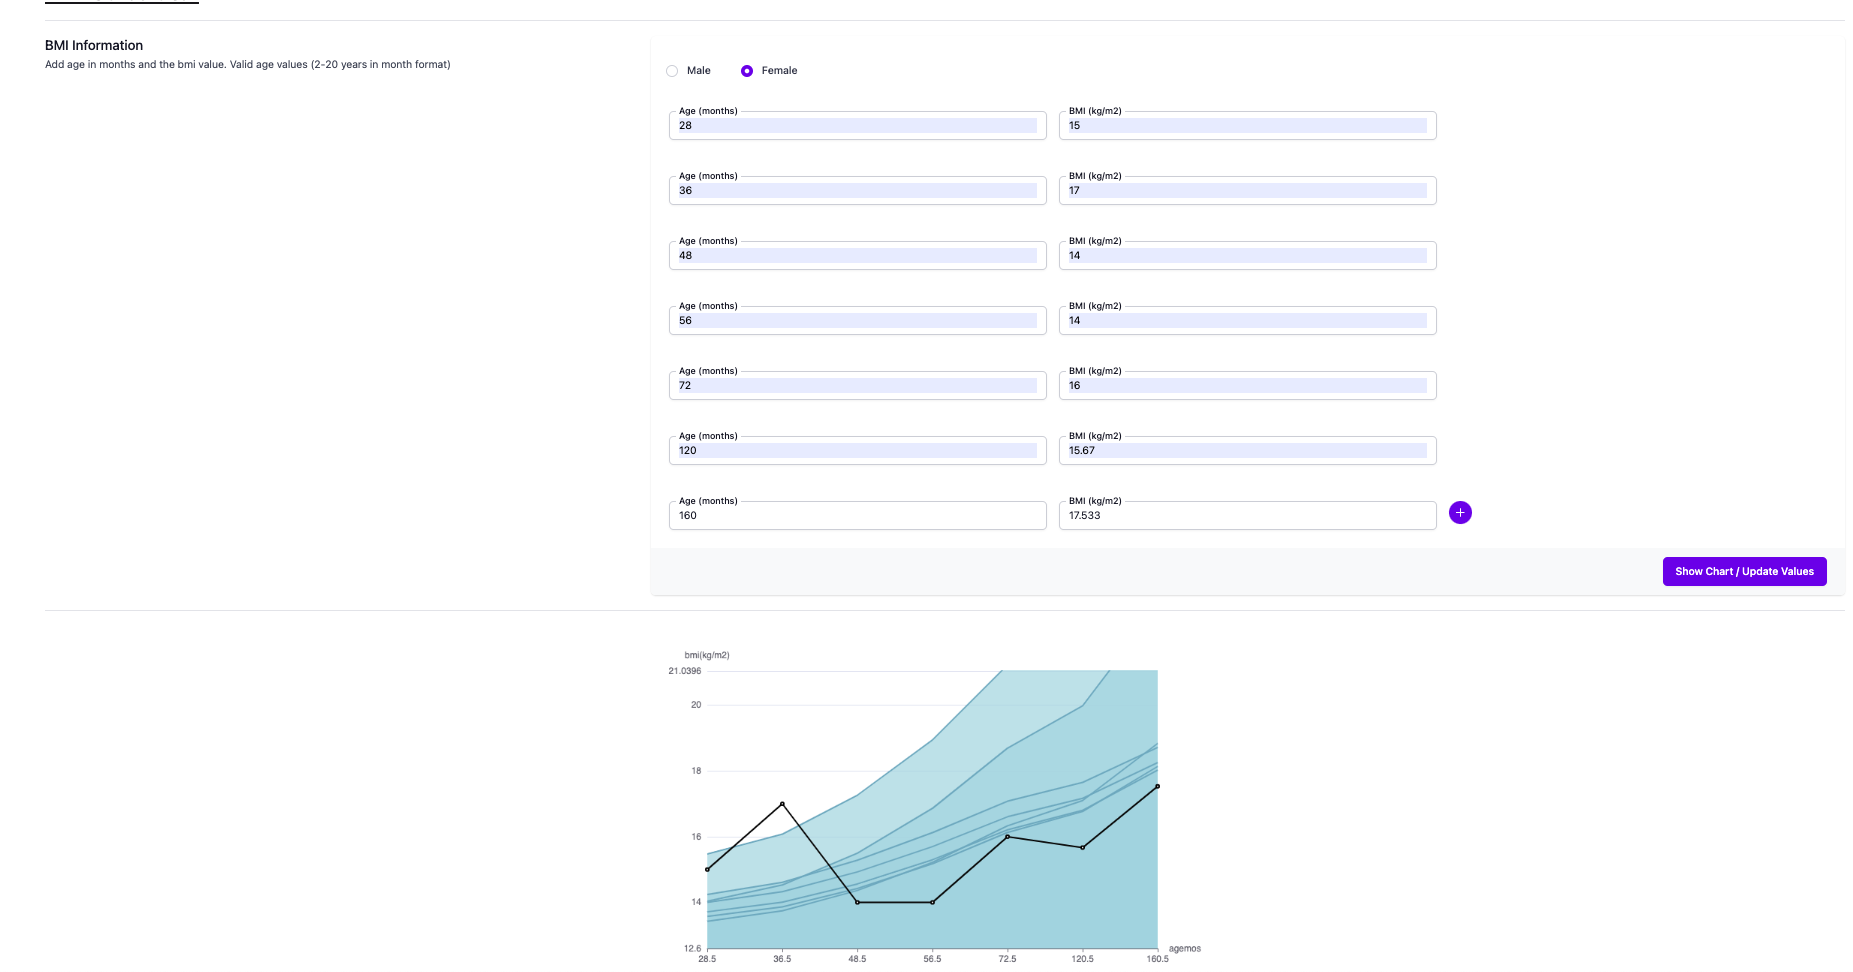
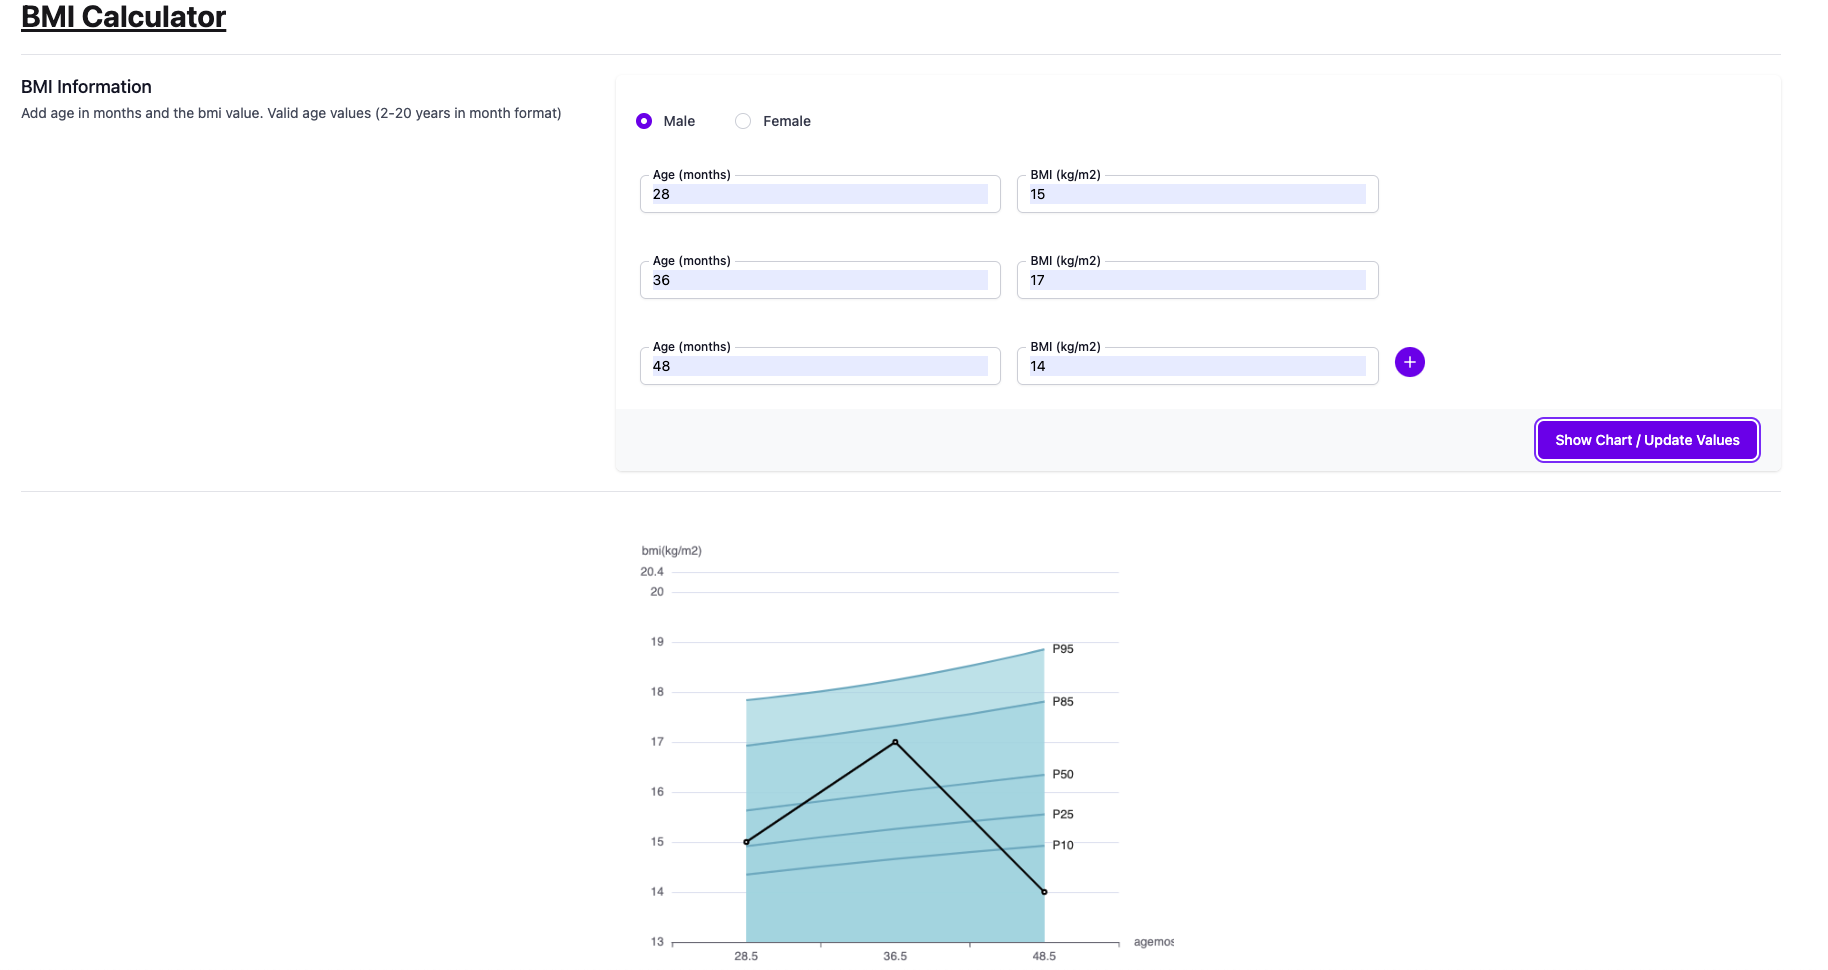
fix:chart data

diff --git a/chart-generator/src/App.tsx b/chart-generator/src/App.tsx
@@ -15,7 +15,7 @@ interface ItemInterface {
 }
 
 function App() {
-  const percentilesValue = ['P5', 'P10', 'P25', 'P50', 'P75', 'P85', 'P95']
+  const percentilesValue = ['P10', 'P25', 'P50', 'P85', 'P95']
   const [ageArray, setAgeArray] = useState([{ showErrorAge: false, showErrorBmi: false, bmi: '', ageMonths: '', id: 1 }])
 
   const addObAjectToArray = () => {
@@ -78,10 +78,13 @@ function App() {
     const yAxisData = xAxisData.map((curr: any) => percentilesValue.map((columnName) => {
       return dataPerGender[curr][columnName]
     }))
+    console.log({ yAxisData })
     const clientData: number[] = result.map(({ bmi }: ItemInterface) => bmi)
-    const series = yAxisData.map((data: any, index: number) => {
+    console.log({ yAxisData })
+    const series: any = percentilesValue.map((_, index) => {
       return {
-        data,
+        data: yAxisData.map((arr: any) => arr[index]).reverse(),
+        smooth: true,
         showSymbol: false,
         type: 'line',
         areaStyle: {
@@ -90,7 +93,13 @@ function App() {
         lineStyle: {
           color: '#76b5c5'
         },
-        name: percentilesValue[index]
+        endLabel: {
+          show: true,
+          formatter: function (params: any) {
+            return params.seriesName
+          }
+        },
+        name: percentilesValue[index ]
       }
     })
     series.push({
@@ -106,7 +115,7 @@ function App() {
     const chartData = {
       xAxis: {
         type: 'category',
-        boundaryGap: false,
+        boundaryGap: true,
         data: xAxisData,
         name: 'agemos'
       },
@@ -124,6 +133,7 @@ function App() {
     let option: EChartsOption
     //@ts-ignore
     option = chartData
+    console.log(chartData)
     myChart.setOption(option)
   }
   return (
